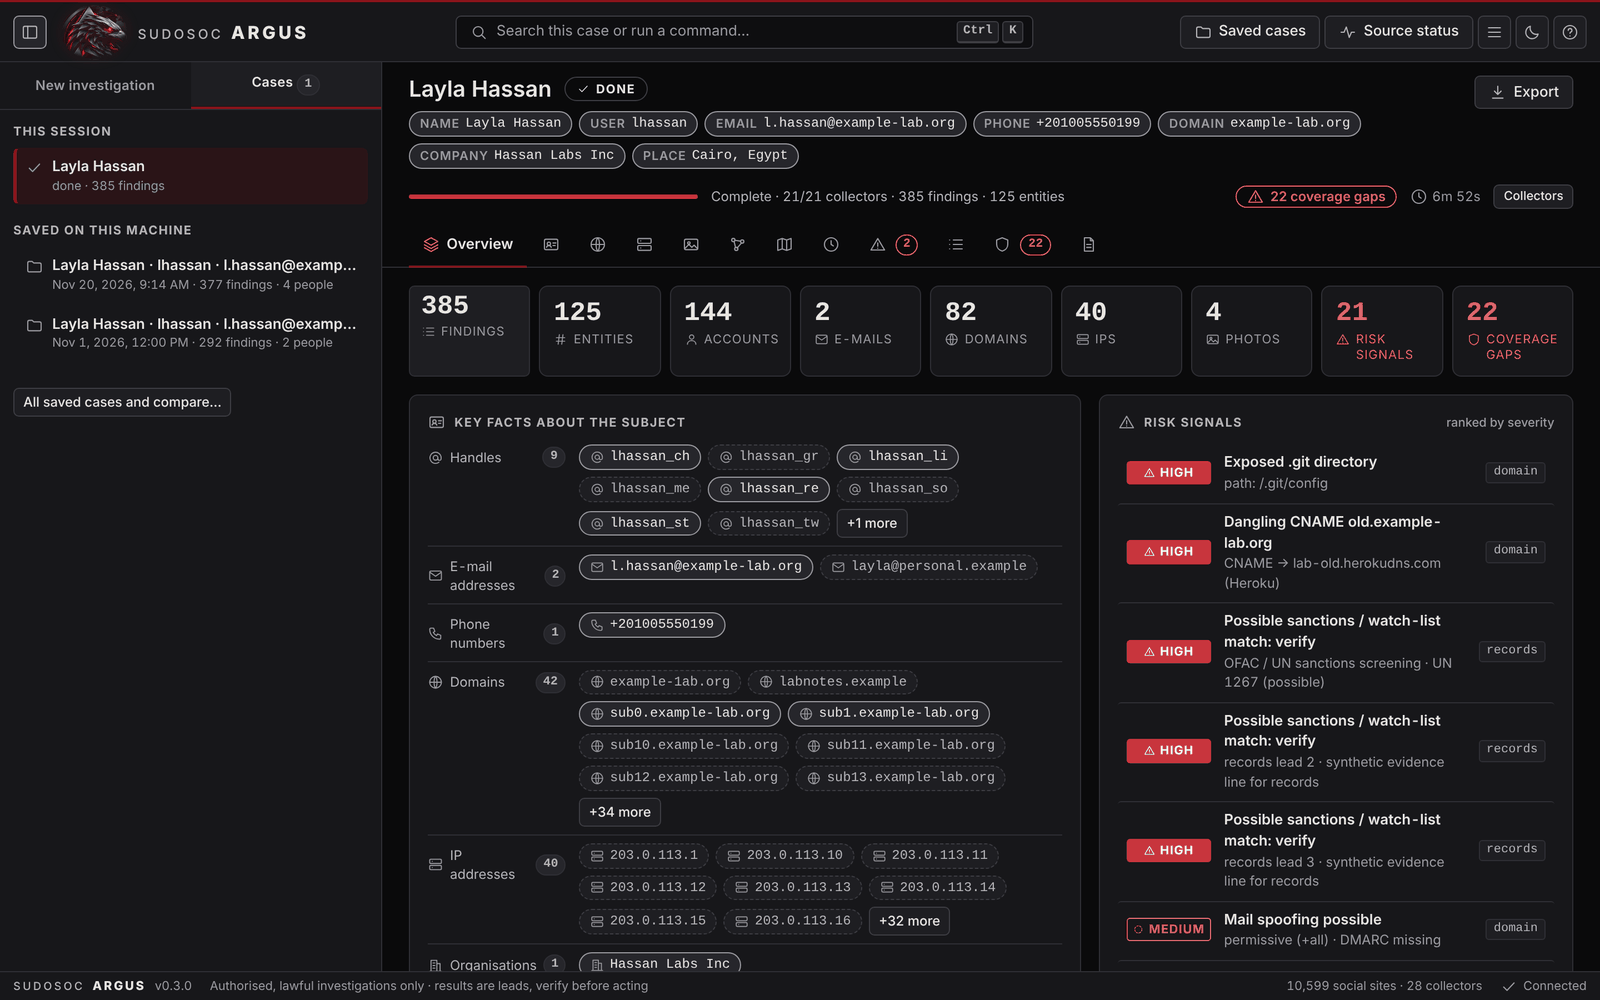
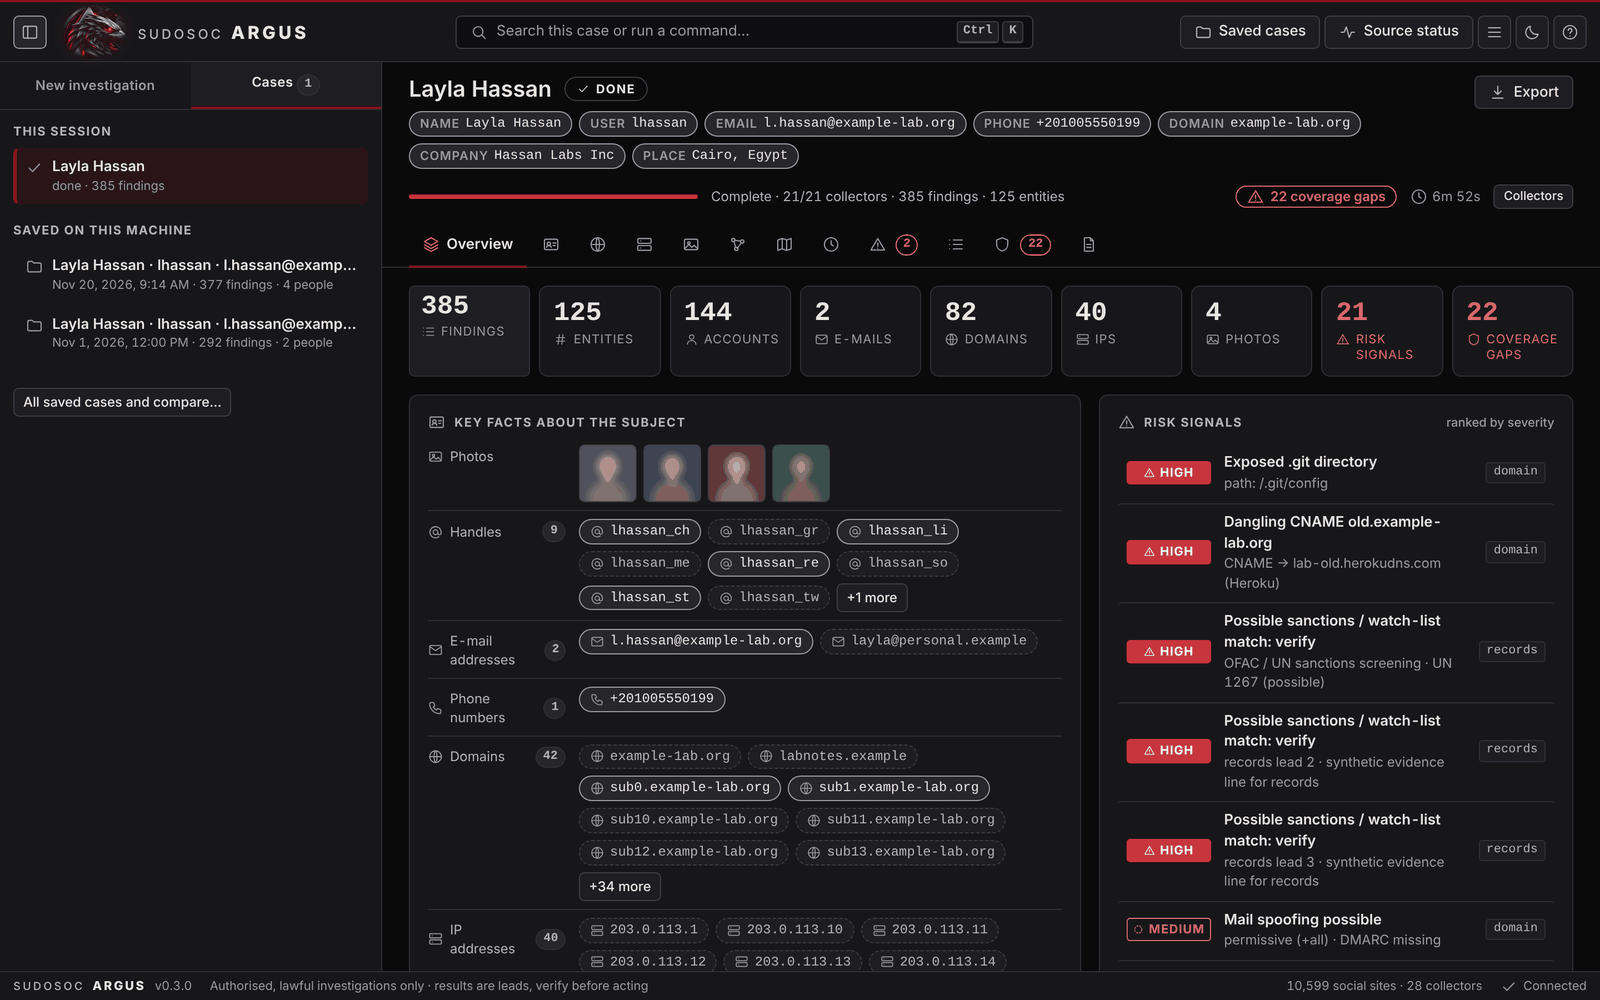
Readable bar charts; privacy-blurred pictures in screenshots

diff --git a/internal/web/static/css/views.css b/internal/web/static/css/views.css
@@ -320,11 +320,11 @@ tr.detail > td { background: var(--well); padding: var(--sp-3) var(--sp-4) var(-
 .fr-kv i { color: var(--text-3); font-style: normal; font-family: var(--mono); font-size: var(--fs-xs); }
 .fr-conf { padding-top: 2px; }
 .hbars { display: grid; gap: 6px; }
-.hbar { display: grid; grid-template-columns: minmax(90px, 200px) minmax(0, 1fr) auto; gap: var(--sp-3); align-items: center; font-size: var(--fs-sm); }
-.hbar.clickable { cursor: pointer; } .hbar.clickable:hover .hb-l { color: var(--text); }
+.kbar { display: grid; grid-template-columns: minmax(90px, 200px) minmax(0, 1fr) auto; gap: var(--sp-3); align-items: center; font-size: var(--fs-sm); }
+.kbar.clickable { cursor: pointer; } .kbar.clickable:hover .hb-l { color: var(--text); }
 .hb-l { color: var(--text-2); overflow: hidden; text-overflow: ellipsis; white-space: nowrap; }
-.hb-t { height: 8px; border-radius: 99px; background: var(--surface-3); overflow: hidden; }
-.hb-f { display: block; height: 100%; background: var(--text-3); border-radius: 99px; }
+.hb-t { height: 10px; border-radius: 99px; background: var(--surface-3); overflow: hidden; }
+.hb-f { display: block; height: 100%; background: var(--emph, var(--accent)); border-radius: 99px; }
 .hb-n { color: var(--text-3); font-size: var(--fs-xs); white-space: nowrap; }
 .ctable tr.clickable { cursor: pointer; } .ctable tr.clickable:hover td { background: var(--surface-2); }
 .gauge { display: grid; grid-template-columns: auto minmax(0, 1fr); gap: var(--sp-4); align-items: center; }

diff --git a/internal/web/static/js/kit.js b/internal/web/static/js/kit.js
@@ -116,7 +116,7 @@
   K.bars = (rows, { max, onClick } = {}) => {
     const m = max || Math.max(1, ...rows.map((r) => r[1]));
     return el("div", { class: "hbars" }, ...rows.map(([label, n, sub]) => {
-      const r = el("div", { class: "hbar" + (onClick ? " clickable" : ""), role: onClick ? "button" : null, tabindex: onClick ? 0 : null },
+      const r = el("div", { class: "kbar" + (onClick ? " clickable" : ""), role: onClick ? "button" : null, tabindex: onClick ? 0 : null },
         el("span", { class: "hb-l", text: label }), el("span", { class: "hb-t" }, el("span", { class: "hb-f", style: `width:${Math.round((n / m) * 100)}%` })), el("span", { class: "hb-n num", text: UI.n(n) + (sub ? " · " + sub : "") }));
       if (onClick) r.addEventListener("click", () => onClick(label));
       return r;

diff --git a/README.md b/README.md
@@ -12,7 +12,7 @@ At a glance: **10,600+ username sites** (WhatsMyName + Sherlock + Maigret, in th
 
 ## Screenshots
 
-All screenshots show a **synthetic demonstration case** (an invented person and `example` domains); nothing in them is real data. (Pictures show as unavailable because the capture machine had no internet access.) The first three are the first-use flow, then one image per main view.
+All screenshots show a **synthetic demonstration case** (an invented person and `example` domains); nothing in them is real data. (Pictures are blurred in the screenshots for privacy; ARGUS shows them sharp.) The first three are the first-use flow, then one image per main view.
 
 | | |
 |---|---|
